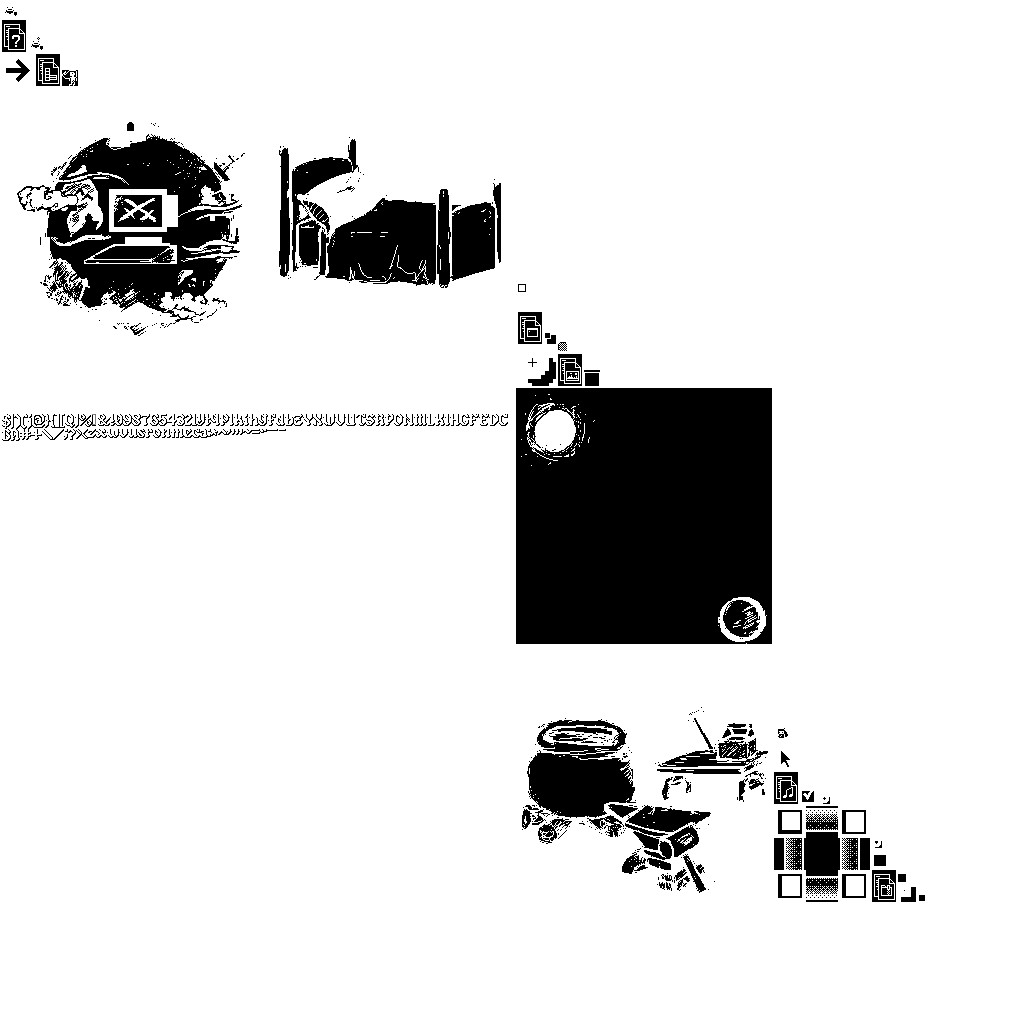
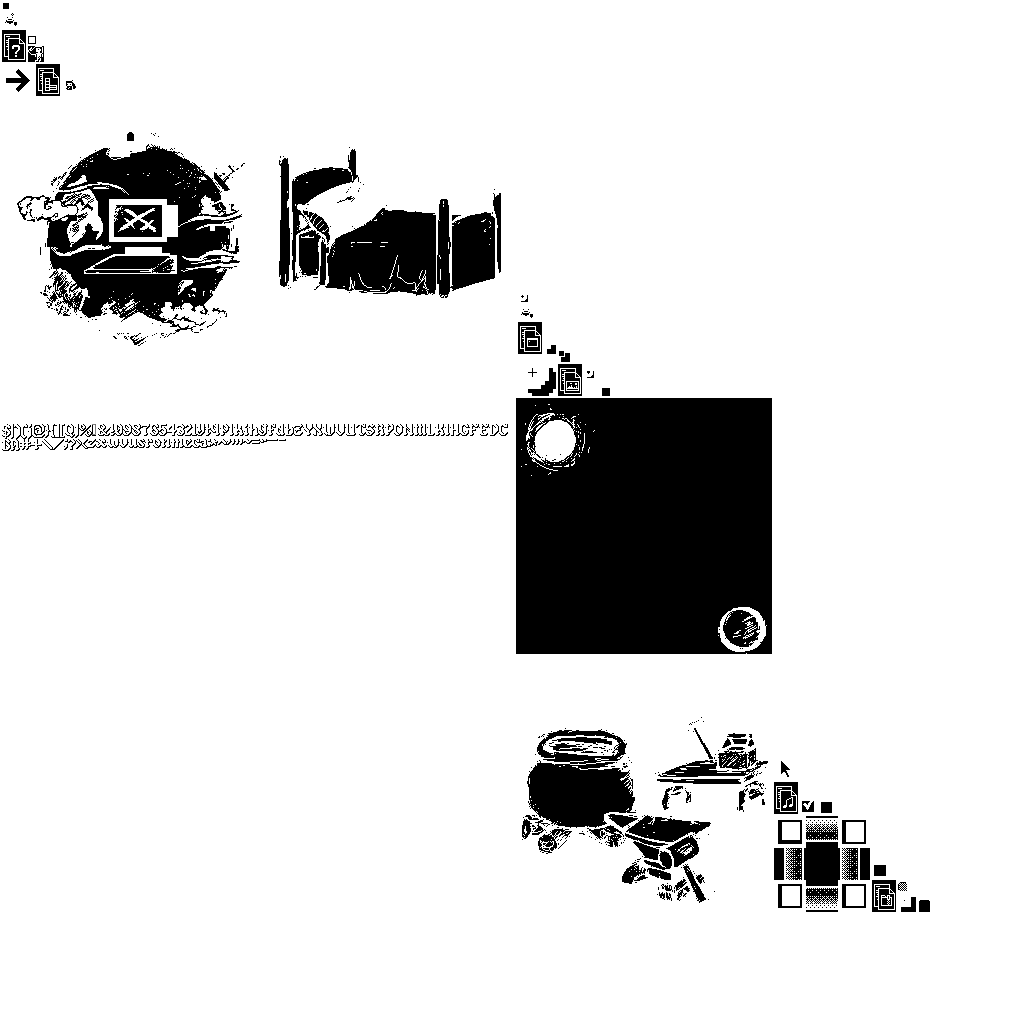
More UI graphical polish

diff --git a/src/scenes/dungeon/ui/WanderUI.java b/src/scenes/dungeon/ui/WanderUI.java
@@ -82,6 +82,10 @@ public class WanderUI extends UI {
     List<String> eventLog;
 
     SacrificeSubmenu sacrificeMenu;
+
+    private Label enemyLabel;
+
+    private Label lootLabel;
     
     @Override
     protected void listenTo(IntSet messages) {
@@ -147,10 +151,20 @@ public class WanderUI extends UI {
             combatLog = new List<String>(skin);
             combatLog.setWidth(300f);
             combatLog.setHeight(100f);
-            combatLog.setPosition(10, 40, Align.bottomLeft);
+            combatLog.setPosition(10, 50, Align.bottomLeft);
             
             combatLog.getItems().addAll("", "Test", "Test", "Test", "Test");
             addActor(combatLog);
+            
+            Image icon = new Image(skin, "ogre");
+            enemyLabel = new Label("10/10", skin, "prompt"); 
+            icon.setSize(32, 32);
+            icon.setPosition(4, 4);
+            enemyLabel.setPosition(42, 0, Align.bottomLeft);
+            enemyLabel.setAlignment(Align.bottomLeft);
+            
+            addActor(icon);
+            addActor(enemyLabel);
         }
         
         //event log
@@ -158,10 +172,20 @@ public class WanderUI extends UI {
             eventLog = new List<String>(skin);
             eventLog.setWidth(300f);
             eventLog.setHeight(100f);
-            eventLog.setPosition(getWidth()-10, 40, Align.bottomRight);
+            eventLog.setPosition(getWidth()-10, 50, Align.bottomRight);
             
             eventLog.getItems().addAll("", "Test", "Test", "Test", "Test");
             addActor(eventLog);
+            
+            Image icon = new Image(skin, "loot");
+            lootLabel = new Label("10", skin, "prompt"); 
+            icon.setSize(32, 32);
+            icon.setPosition(getWidth()-4, 4, Align.bottomRight);
+            lootLabel.setPosition(getWidth()-42, 0, Align.bottomRight);
+            lootLabel.setAlignment(Align.bottomRight);
+            
+            addActor(icon);
+            addActor(lootLabel);
         }
         
         //create equipment hud
@@ -304,6 +328,8 @@ public class WanderUI extends UI {
      * progress of the dungeon
      */
     void refresh(Progress progress) {
+        enemyLabel.setText(progress.monstersKilled + "/" + progress.monstersTotal);
+        lootLabel.setText(String.valueOf(progress.lootFound));
     }
 
     void showGoddess(String string) {
@@ -318,9 +344,6 @@ public class WanderUI extends UI {
         goddess.addAction(Actions.moveTo(getWidth(), getHeight() / 2 - 64f, .3f));
     }
 
-    void showLoot() {
-
-    }
 
     public void fadeOut(Runnable cmd) {
         fader.addAction(

diff --git a/src/scenes/town/ui/TownUI.java b/src/scenes/town/ui/TownUI.java
@@ -211,11 +211,11 @@ public class TownUI extends GameUI {
         craftSubmenu.setHeight(display.getHeight());
 
         craftTabs = new ButtonGroup<Button>();
-        final TextButton myButton = new TextButton("My List", skin);
+        final TextButton myButton = new TextButton("My List", skin, "tab");
         myButton.setName("required");
         craftTabs.add(myButton);
 
-        final TextButton todayButton = new TextButton("Today's Special", skin);
+        final TextButton todayButton = new TextButton("Today's Special", skin, "tab");
         todayButton.setName("extra");
         craftTabs.add(todayButton);
 
@@ -374,7 +374,7 @@ public class TownUI extends GameUI {
         lootPane.setScrollbarsOnTop(true);
         lootPane.addListener(new ScrollFocuser(lootPane));
 
-        TextButton lootLabel = new TextButton("My Loot", skin);
+        TextButton lootLabel = new TextButton("My Loot", skin, "tab");
         lootLabel.setUserObject(lootPane);
         lootSubmenu = new TabbedPane(new ButtonGroup<Button>(lootLabel), false);
         lootSubmenu.setWidth(250f);
@@ -521,7 +521,7 @@ public class TownUI extends GameUI {
 
         ButtonGroup<Button> questTabs = new ButtonGroup<Button>();
         {
-            final TextButton availableButton = new TextButton("Available", skin);
+            final TextButton availableButton = new TextButton("Available", skin, "tab");
             availableButton.setName("available");
             questTabs.add(availableButton);
 
@@ -549,7 +549,7 @@ public class TownUI extends GameUI {
         }
 
         {
-            final TextButton acceptedButton = new TextButton("Accepted", skin);
+            final TextButton acceptedButton = new TextButton("Accepted", skin, "tab");
             acceptedButton.setName("history");
             questTabs.add(acceptedButton);
 
@@ -743,7 +743,7 @@ public class TownUI extends GameUI {
         goddess.setSize(128f, 128f);
         goddess.setPosition(620, 75, Align.center);
         goddess.setScaling(Scaling.stretch);
-        goddessDialog = new Window("", skin, "dialog");
+        goddessDialog = new Window("", skin, "round");
         goddessDialog.setSize(700, 150);
         goddessDialog.setOrigin(Align.center);
         goddessDialog.setPosition(display.getWidth()/2f, display.getHeight() / 2f, Align.center);

diff --git a/src/scenes/newgame/NewUI.java b/src/scenes/newgame/NewUI.java
@@ -32,6 +32,7 @@ import com.badlogic.gdx.scenes.scene2d.ui.Label;
 import com.badlogic.gdx.scenes.scene2d.ui.Skin;
 import com.badlogic.gdx.scenes.scene2d.ui.Table;
 import com.badlogic.gdx.scenes.scene2d.ui.TextButton;
+import com.badlogic.gdx.scenes.scene2d.ui.Window;
 import com.badlogic.gdx.utils.Align;
 import com.badlogic.gdx.scenes.scene2d.utils.ChangeListener;
 import com.badlogic.gdx.utils.Array;
@@ -84,7 +85,8 @@ public class NewUI extends UI {
 
         // create load data dialog
         {
-            Group window = slotFrame = super.makeWindow(skin, 600, 300, true);
+            Group window = slotFrame = new Window("", skin, "thick");
+            window.setSize(600, 300);
             Table table = new Table();
 
             FocusGroup focus = slotFocus = new FocusGroup();
@@ -168,13 +170,13 @@ public class NewUI extends UI {
             }
 
             window.addActor(table);
-            window.setPosition(getWidth() / 2 - window.getWidth() / 2, getHeight() / 2 - window.getHeight() / 2);
+            window.setPosition(getWidth()/2, getHeight()/2, Align.center);
             addActor(window);
         }
 
-        createFrame = UI.makeWindow(skin, 580, 300);
-        createFrame.setPosition(getWidth() / 2 - createFrame.getWidth() / 2, getHeight() / 2 - createFrame.getHeight()
-                / 2);
+        createFrame = new Window("", skin, "thick");
+        createFrame.setSize(580, 300);
+        createFrame.setPosition(getWidth()/2, getHeight()/2, Align.center);
 
         final Table window = new Table(skin);
         window.setFillParent(true);

diff --git a/src/scenes/dungeon/ui/SacrificeSubmenu.java b/src/scenes/dungeon/ui/SacrificeSubmenu.java
@@ -81,7 +81,7 @@ public class SacrificeSubmenu {
             lootPane.setFadeScrollBars(false);
             lootPane.addListener(new ScrollFocuser(lootPane));
             
-            TextButton label = new TextButton("My Loot", skin);
+            TextButton label = new TextButton("My Loot", skin, "tab");
             label.setUserObject(lootPane);
             TabbedPane pane = new TabbedPane(new ButtonGroup<Button>(label), false);
             pane.setWidth(240f);
@@ -104,7 +104,7 @@ public class SacrificeSubmenu {
             sacrificePane.setFadeScrollBars(false);
             sacrificePane.addListener(new ScrollFocuser(sacrificePane));
 
-            label = new TextButton("Sacrifice", skin);
+            label = new TextButton("Sacrifice", skin, "tab");
             label.setUserObject(sacrificePane);
             pane = new TabbedPane(new ButtonGroup<Button>(label), false);
             pane.setWidth(240f);
@@ -122,7 +122,7 @@ public class SacrificeSubmenu {
             buttonList = new Group();
             ButtonGroup<Button> buttons = new ButtonGroup<Button>();
             
-            TextButton button = new TextButton("Sacrifice", skin);
+            TextButton button = new TextButton("Sacrifice", skin, "pop");
             button.setWidth(240f);
             button.setHeight(48f);
             button.setPosition(0,0);

diff --git a/src/scenes/town/ui/FileBrowser.java b/src/scenes/town/ui/FileBrowser.java
@@ -116,9 +116,9 @@ public class FileBrowser extends Group {
         historyWindow.setHeight(getHeight());
         historyWindow.setUserObject(historyContents);
         
-        TextButton browseTab = new TextButton("Browse", skin);
+        TextButton browseTab = new TextButton("Browse", skin, "tab");
         browseTab.setUserObject(browseWindow);
-        TextButton historyTab = new TextButton("Recent Files", skin);
+        TextButton historyTab = new TextButton("Recent Files", skin, "tab");
         historyTab.setUserObject(historyWindow);
         ButtonGroup<Button> tabs = new ButtonGroup<Button>(browseTab, historyTab);
         browseTab.setChecked(true);

diff --git a/src/scenes/dungeon/RenderSystem.java b/src/scenes/dungeon/RenderSystem.java
@@ -54,7 +54,7 @@ import core.service.interfaces.IDungeonContainer;
 public class RenderSystem extends EntitySystem implements EntityListener, Telegraph {
 
     public static final float MoveSpeed = .15f;
-    public static final float MaxZoom = .5f;
+    public static final float MaxZoom = 0f;
     private static final float SCALE = 32f;
     private static final int[] SHADOW_RANGE = {41, 21};
     private static final float FOV_RANGE = 8.0f;
